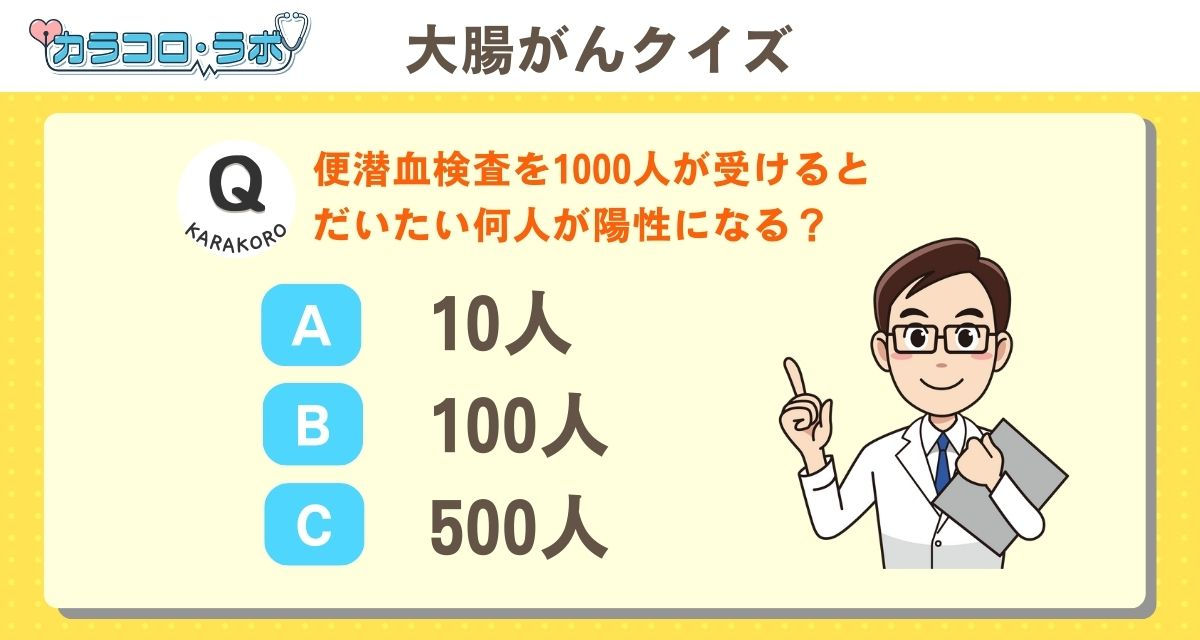
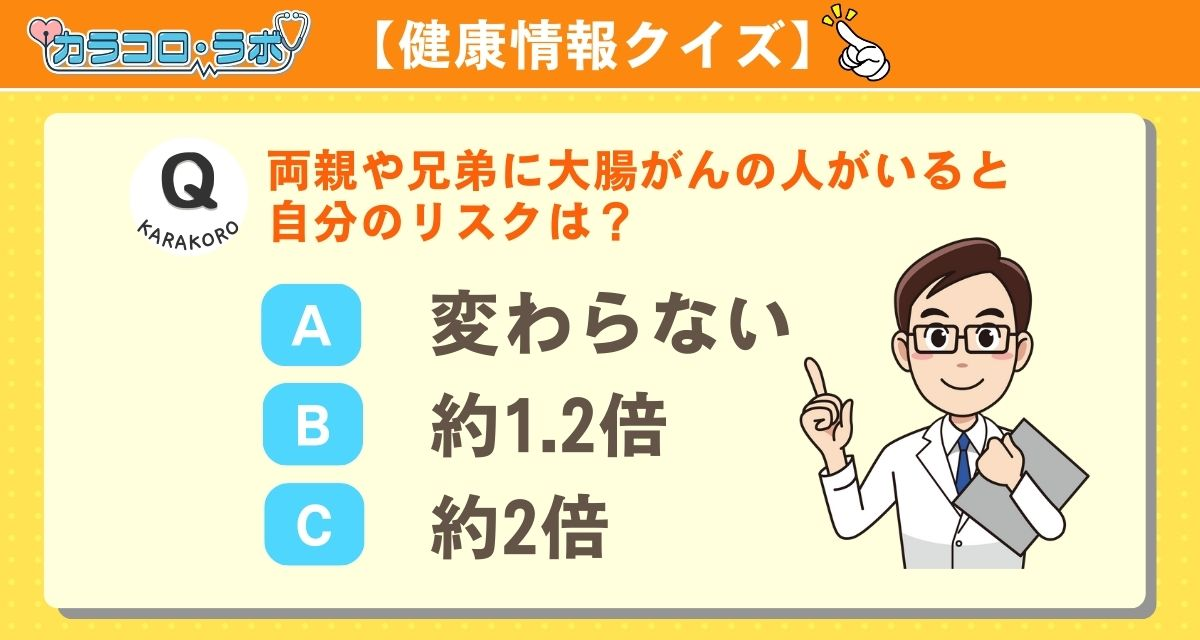
first commit

diff --git a/index.html b/index.html
@@ -61,13 +61,13 @@
       <div class="meta">3択クイズ</div>
 
       <!-- ▼ 問題文（自由に変更） -->
-      <h1 id="q">便潜血検査：1000人受けたら何人くらい陽性？</h1>
+      <h1 id="q">両親や兄弟に大腸がんの人がいると、自分のリスクは？</h1>
 
       <!-- ▼ 選択肢（?a=0/1/2 で即判定） -->
       <div class="choices">
-        <a class="choice" href="?a=0">A. 10人前後</a>
-        <a class="choice" href="?a=1">B. 100人前後</a>
-        <a class="choice" href="?a=2">C. 300人前後</a>
+        <a class="choice" href="?a=0">A. 変わらない</a>
+        <a class="choice" href="?a=1">B. 約1.2倍</a>
+        <a class="choice" href="?a=2">C. 約2倍</a>
       </div>
 
       <!-- ▼ 判定＆解説が出る場所 -->
@@ -80,9 +80,9 @@
   <script>
     // ▼ 正解と解説（ここだけ変えれば別問題にも使い回せます）
     const quiz = {
-      answer: 1, // A=0, B=1, C=2…
-      explain: "便潜血検査では1000人中およそ100人が陽性となり、そのうち約2〜3人に大腸がんが見つかります。定期的な検診が早期発見に繋がります。",
-      video: { title: "名医が解説する「大腸がん」の動画はコチラから！", url: "https://youtu.be/mVy6wHglH_8" } // 不要なら url を空欄に
+      answer: 2, // A=0, B=1, C=2…
+      explain: "血縁者に大腸がんがあると、自分のリスクは約2倍。遺伝や生活習慣の共通が影響していると考えられています。定期的な検診で早期発見・予防が可能です。",
+      video: { title: "名医が解説する「大腸がん」第4話。視聴はコチラから！", url: "https://youtu.be/mVy6wHglH_8" } // 不要なら url を空欄に
     };
 
     // ▼ URLの ?a= に応じて即判定
